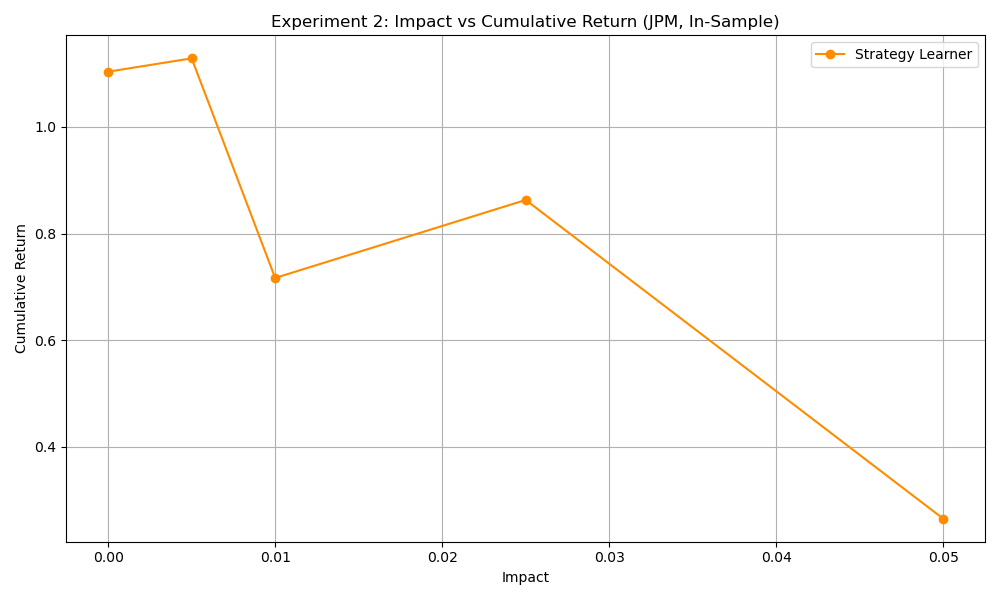
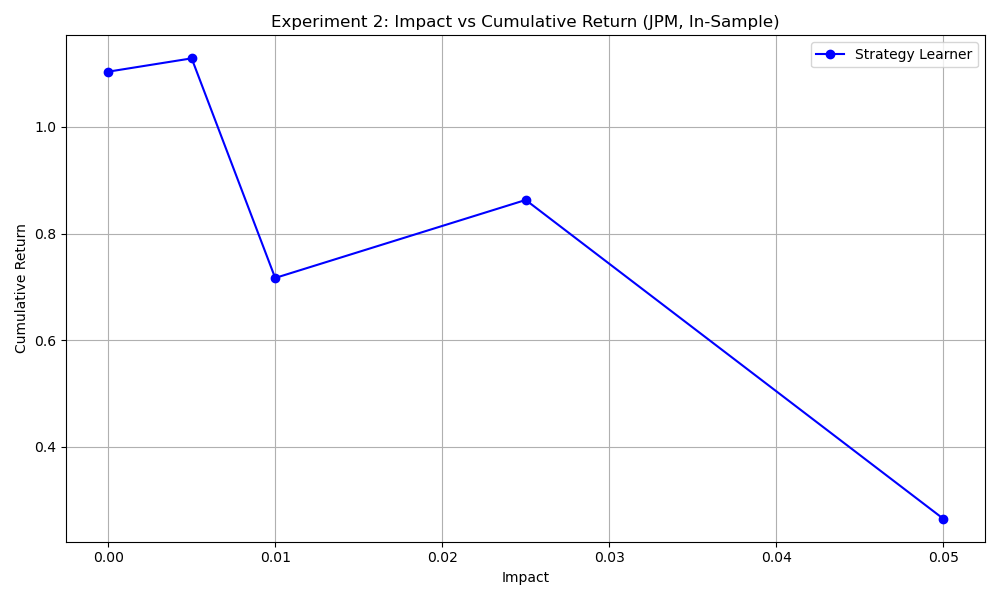
change of color

diff --git a/strategy_evaluation/experiment2.py b/strategy_evaluation/experiment2.py
@@ -55,7 +55,7 @@ def run_experiment2(symbol="JPM", sv=100000, commission=0.0,
     bench_cr = _benchmark_cr(symbol, sd, ed, sv, commission, impact_values[0])
 
     fig1, ax1 = plt.subplots(figsize=(10, 6))
-    ax1.plot(results["impact"], results["cumulative_return"], marker="o", color="darkorange",
+    ax1.plot(results["impact"], results["cumulative_return"], marker="o", color="blue",
              label="Strategy Learner")
     ax1.set_xlabel("Impact")
     ax1.set_ylabel("Cumulative Return")
@@ -67,7 +67,7 @@ def run_experiment2(symbol="JPM", sv=100000, commission=0.0,
     plt.close(fig1)
 
     fig2, ax2 = plt.subplots(figsize=(10, 6))
-    ax2.plot(results["impact"], results["num_trades"], marker="o", color="teal",
+    ax2.plot(results["impact"], results["num_trades"], marker="o", color="green",
              label="Strategy Learner")
     ax2.set_xlabel("Impact")
     ax2.set_ylabel("Number of Trades")
